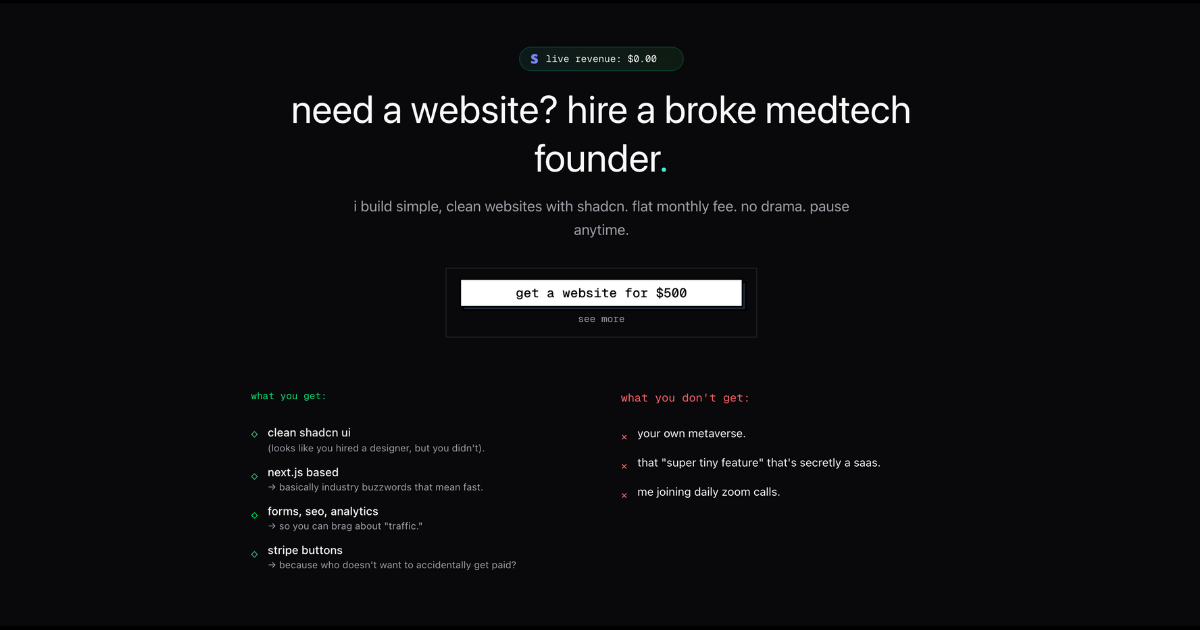
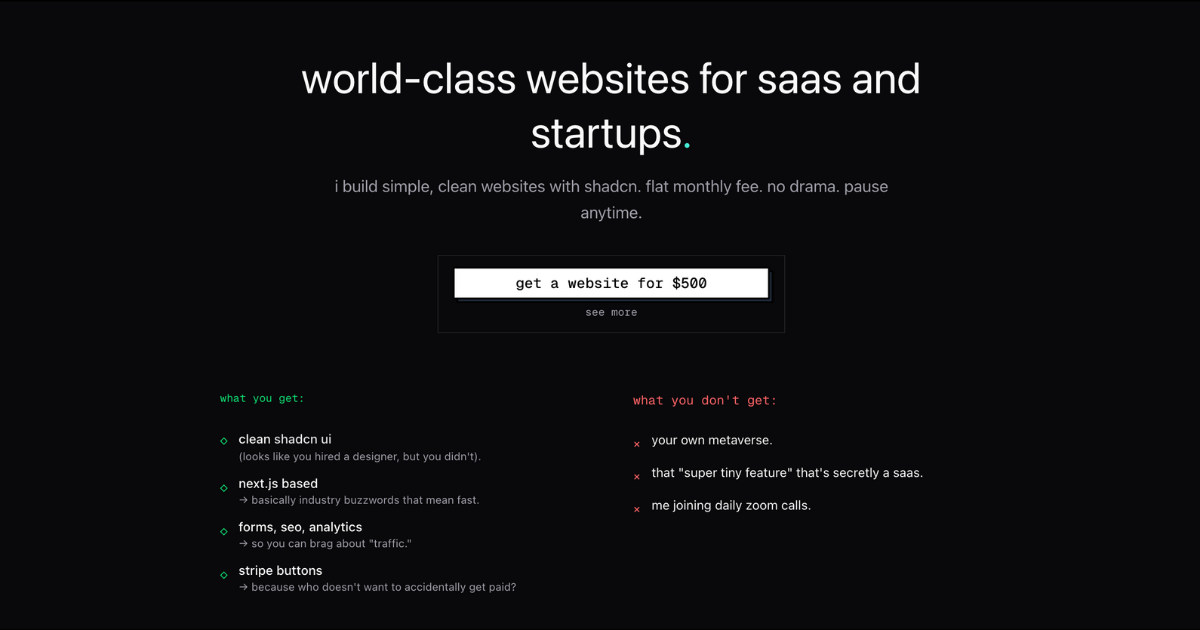
minor

diff --git a/src/components/hero.tsx b/src/components/hero.tsx
@@ -7,9 +7,6 @@ export function Hero() {
       {/* Main Hero Section */}
       <div className="text-center space-y-8 mb-16">
         <div className="space-y-4">
-          <div className="flex justify-center mb-4">
-            <Revenues />
-          </div>
           <h1 className="text-3xl md:text-4xl lg:text-5xl font-normal text-foreground leading-tight">
             world-class websites for saas and startups
             <span className="text-teal-300">.</span>
